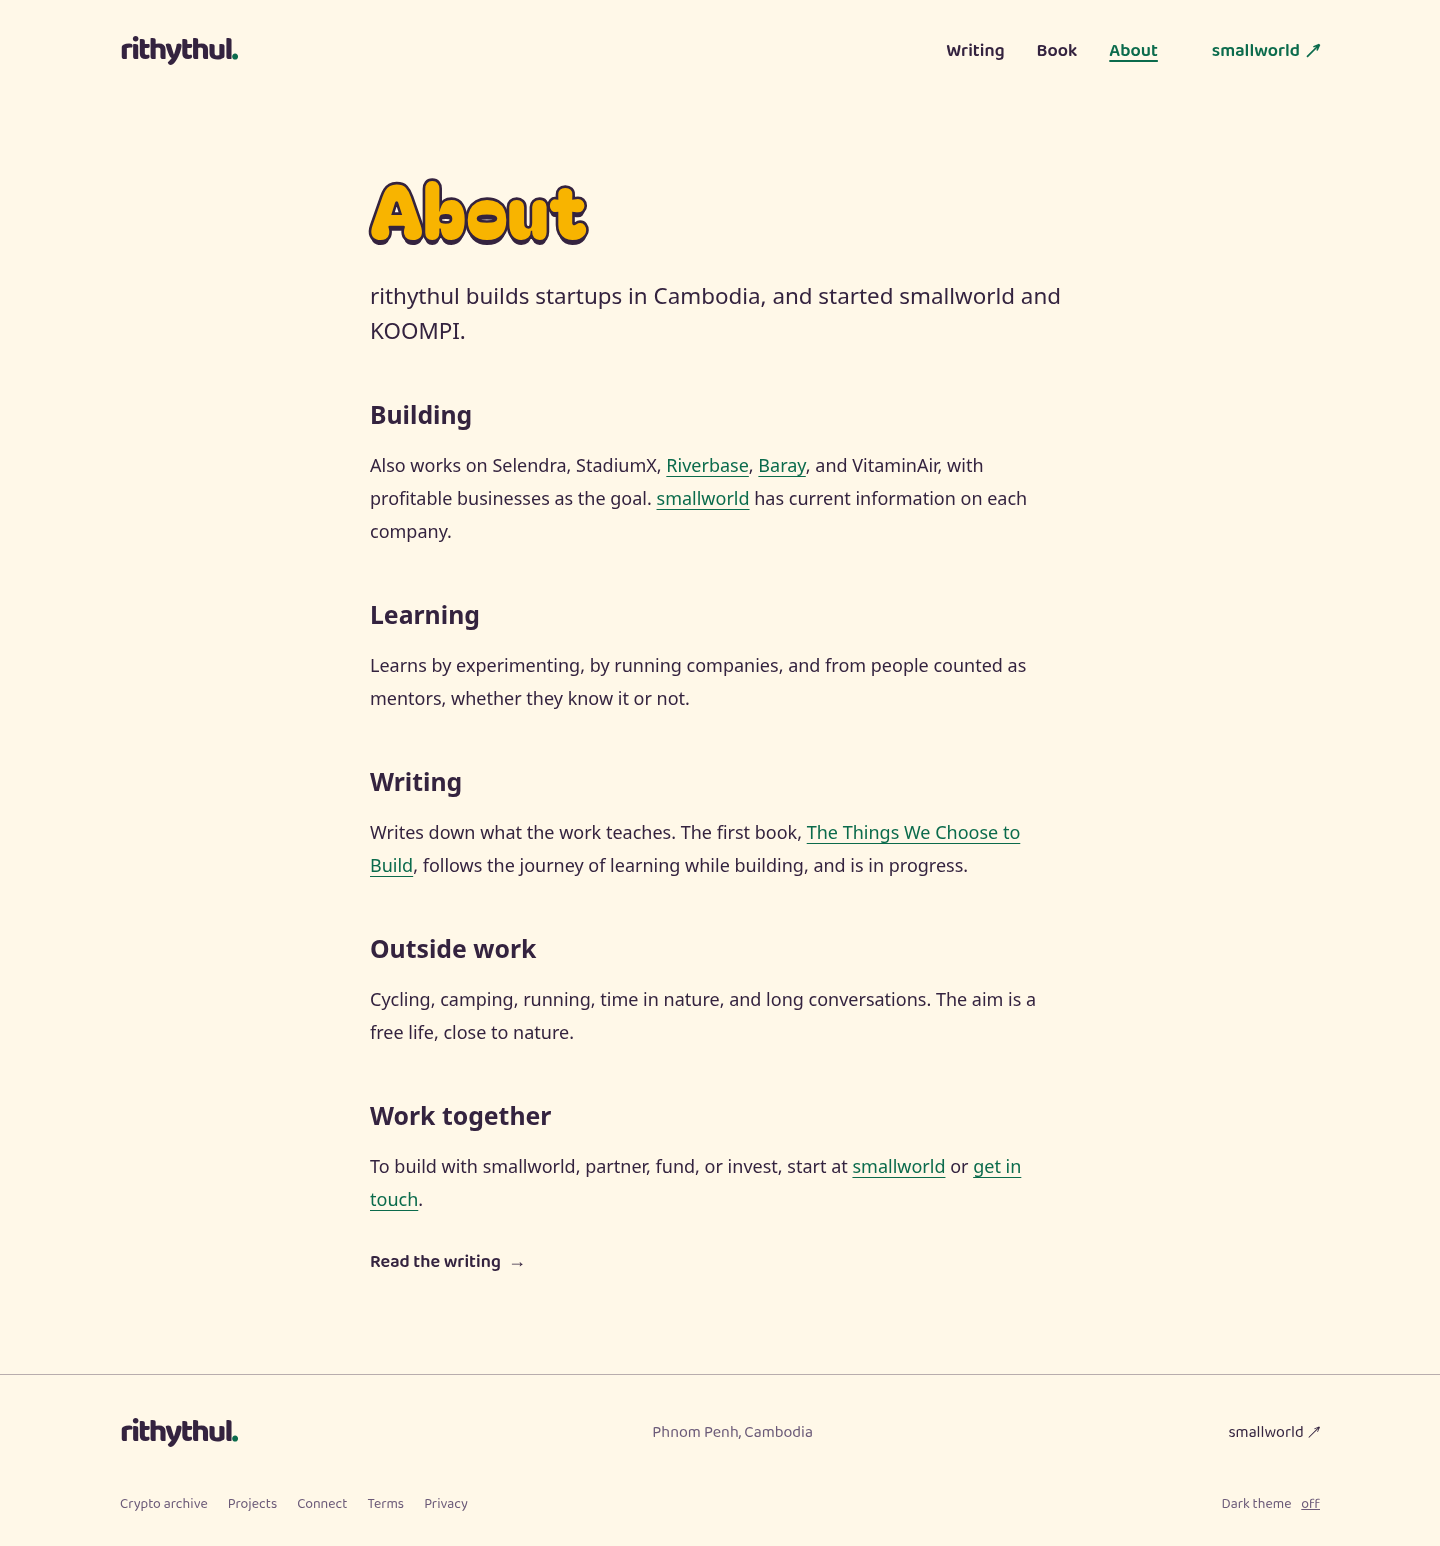
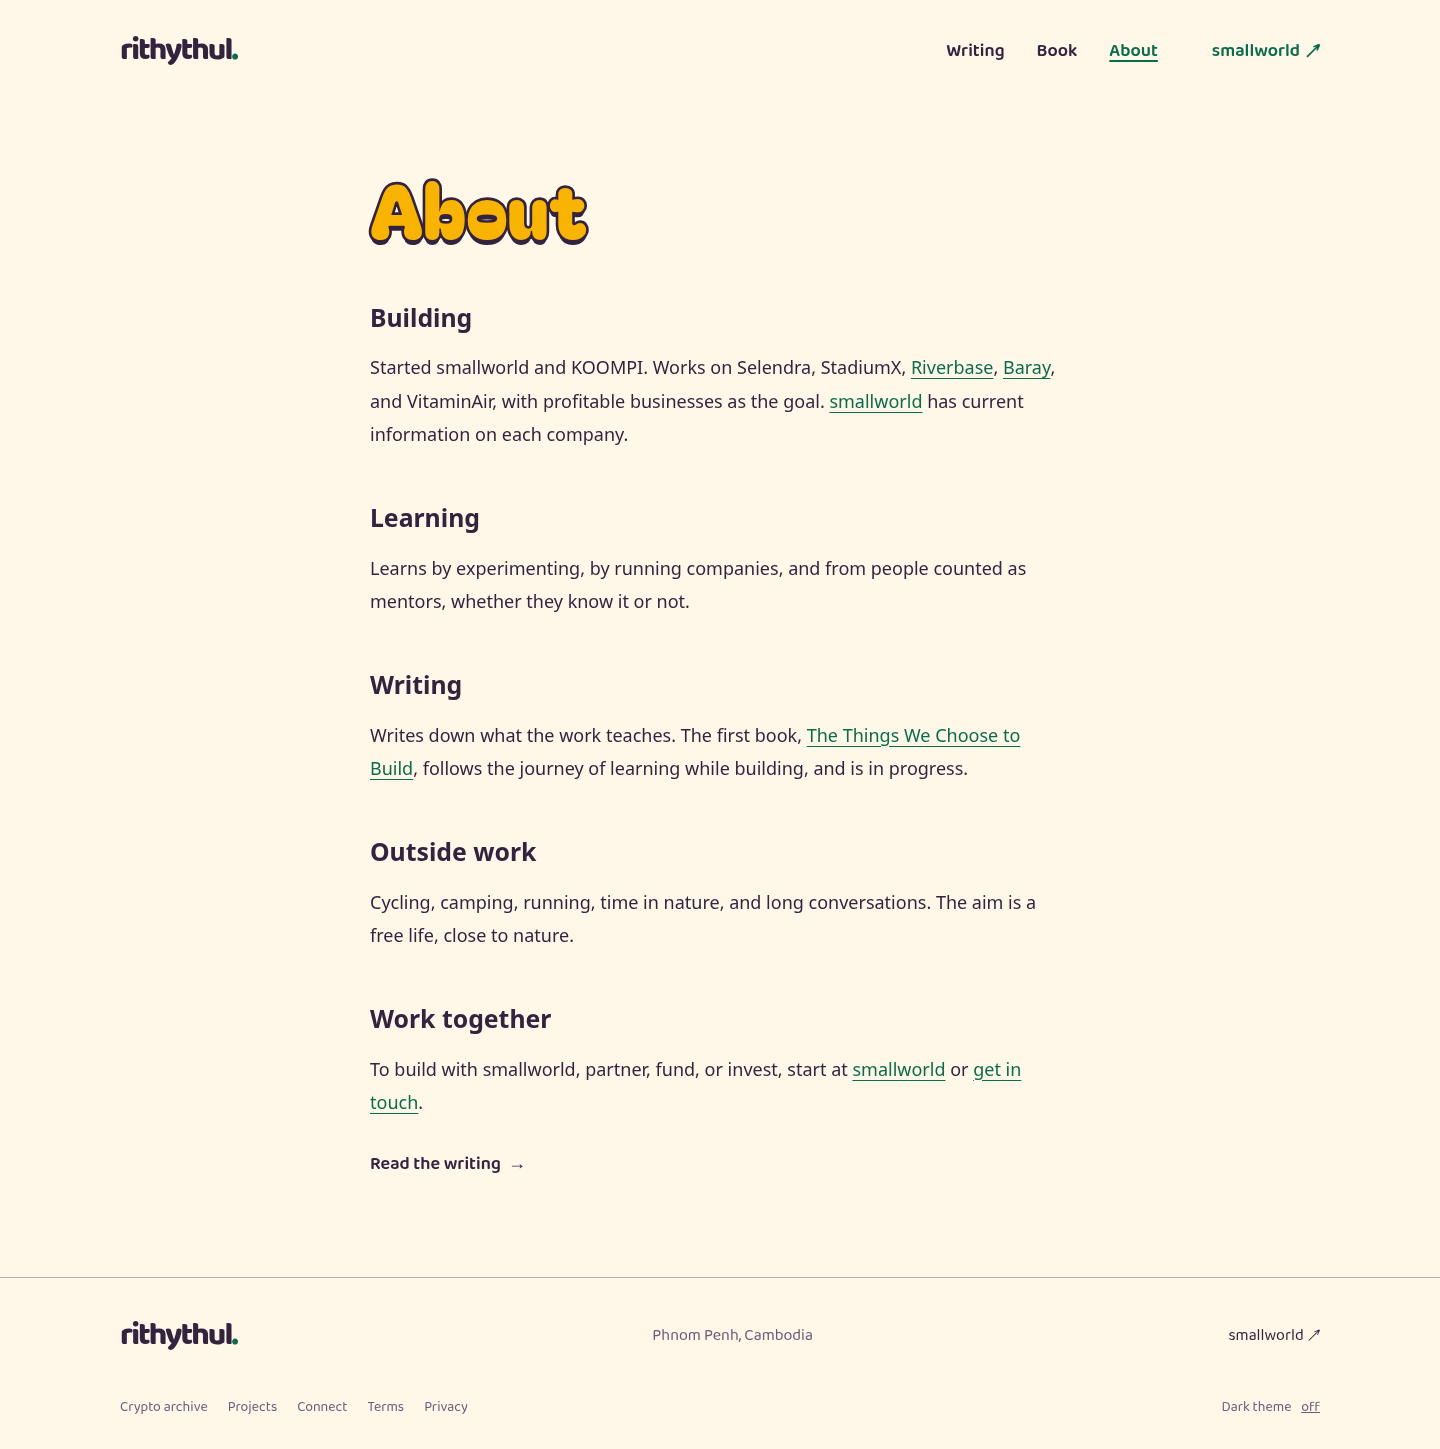
Drop the /about lead line; Building now opens with smallworld and KOOMPI
rithythul asked to remove the lead sentence. Its facts (started smallworld and KOOMPI) move to the start of Building so the section no longer opens on a dangling 'Also'.

diff --git a/rithyorg/app/about/page.tsx b/rithyorg/app/about/page.tsx
@@ -12,11 +12,9 @@ export default function AboutPage() {
     <div className="reading page">
       <h1>About</h1>
       <div className="prose">
-        <p className="lead">rithythul builds startups in Cambodia, and started smallworld and KOOMPI.</p>
-
         <h2>Building</h2>
         <p>
-          Also works on Selendra, StadiumX, <a href="https://riverbase.app">Riverbase</a>,{" "}
+          Started smallworld and KOOMPI. Works on Selendra, StadiumX, <a href="https://riverbase.app">Riverbase</a>,{" "}
           <a href="https://baray.io">Baray</a>, and VitaminAir, with profitable businesses as the goal.{" "}
           <a href="https://smallworld.xyz/">smallworld</a> has current information on each company.
         </p>
